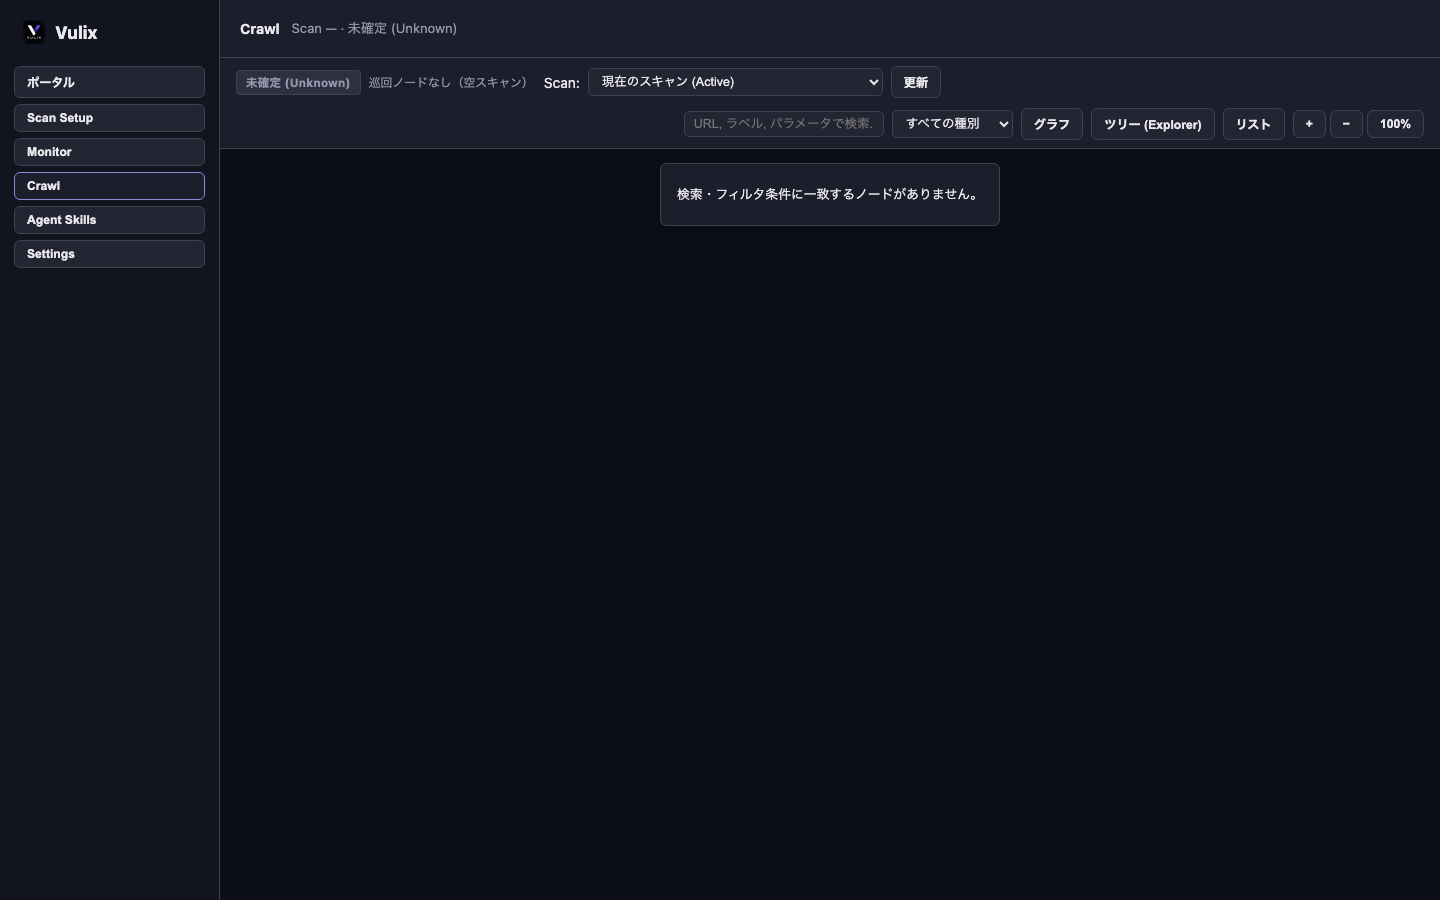
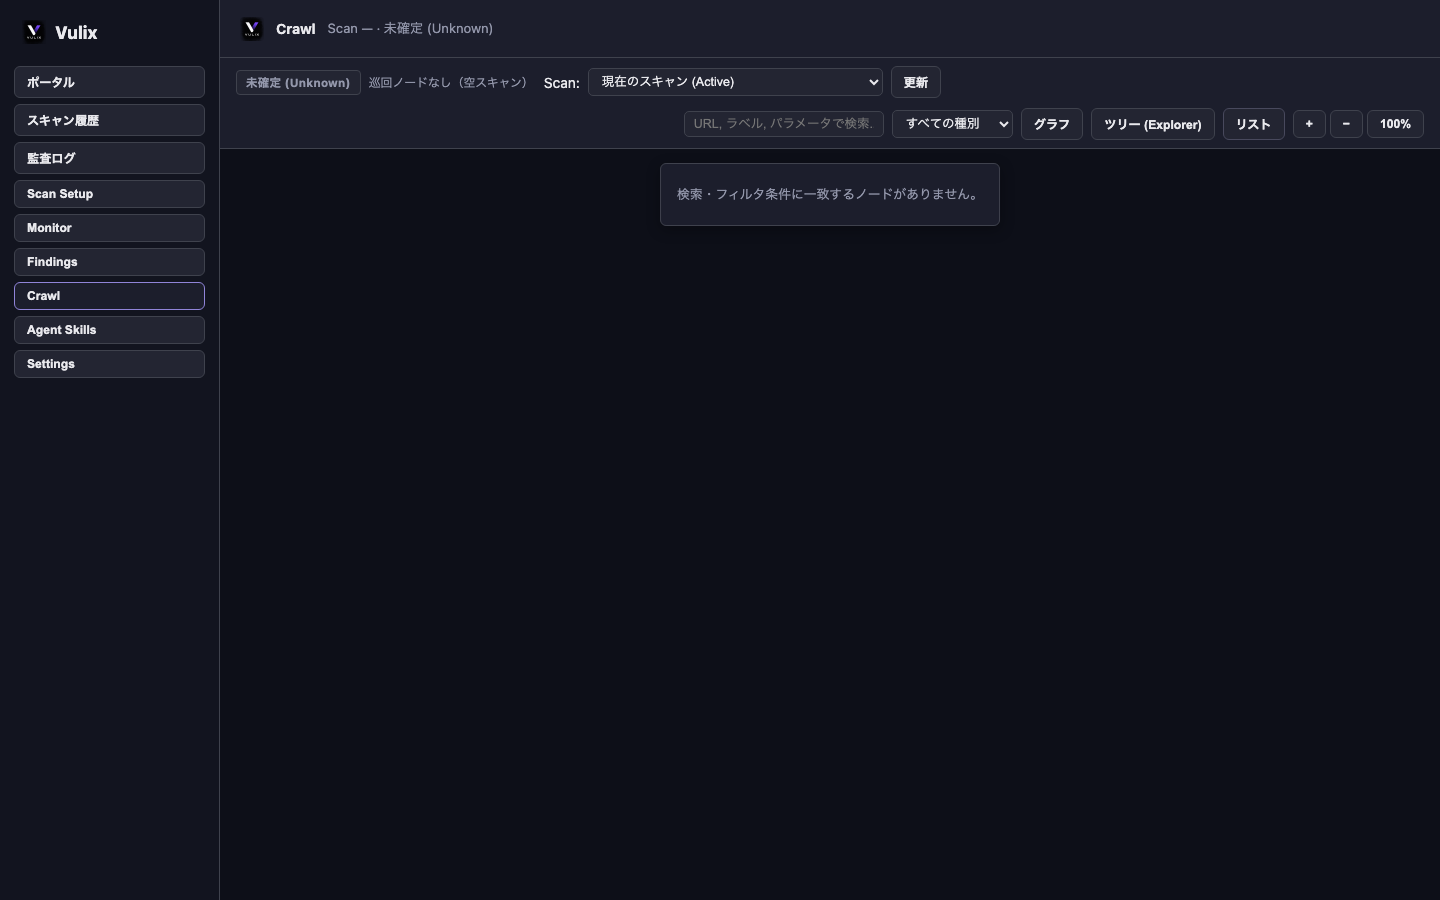
docs: refresh dashboard screenshots and usage guide for /app shell
Regenerate dashboard screenshots to reflect the current /app shell UI and representative legacy views. Update README.md and docs/dashboard_usage_ja.md to document the default /app shell, navigation rail and header, 3-pane monitor, setup readiness preflight, and crawl-findings cross links while preserving documentation for legacy endpoints.

diff --git a/tests/test_ui_app_screens_e2e.py b/tests/test_ui_app_screens_e2e.py
@@ -146,6 +146,7 @@ def test_app_portal_and_history_screens(e2e_harness: UIHarness):
 
         # 1. Verify Portal renders scan history table with seeded representative scans
         page.wait_for_function("() => document.querySelectorAll('#summarySurface table tbody tr').length >= 6")
+        e2e_harness.save_doc_image(page, "app-portal")
         table_text = page.locator("#summarySurface table tbody").inner_text()
 
         assert "store.internal.local" in table_text
@@ -841,5 +842,102 @@ def test_app_shell_keyboard_focus_visibility_and_responsive_widths(e2e_harness: 
         )
 
         e2e_harness.assert_no_errors(page)
+    finally:
+        page.close()
+
+
+def test_legacy_dashboard_surfaces_doc_images(ui_harness: UIHarness):
+    """Capture legacy /monitor screenshots for documentation in deterministic fixture states."""
+    require_browser()
+    page = ui_harness.new_page(**STANDARD_VIEWPORTS[1440])
+    try:
+        page.goto(f"{ui_harness.server_url}/monitor", wait_until="domcontentloaded")
+        page.wait_for_selector("#scanConfigOverlay")
+
+        # 1. dashboard-configured: Basic config filled in overlay
+        page.locator("#cfgInputUrl").fill("https://example.com")
+        page.locator("#cfgTab-basic #cfgDepth").fill("2")
+        ui_harness.save_doc_image(page, "dashboard-configured")
+
+        # 2. dashboard-carrier-coverage: Checks tab showing Carrier Coverage Matrix
+        page.locator(".cfg-tab", has_text="検査項目").click()
+        page.locator("#carrierCoverageMatrix").wait_for()
+        page.locator("#carrierCoverageHeading").scroll_into_view_if_needed()
+        page.wait_for_timeout(100)
+        ui_harness.save_doc_image(page, "dashboard-carrier-coverage")
+
+        # 3. dashboard-hybrid: Hybrid tab
+        page.locator(".cfg-tab", has_text="ハイブリッド").click()
+        page.locator("#cfgTab-hybrid").wait_for()
+        page.locator("#cfgTab-hybrid").scroll_into_view_if_needed()
+        page.wait_for_timeout(100)
+        ui_harness.save_doc_image(page, "dashboard-hybrid")
+
+        # Close overlay and populate monitor for live / done / aborted states
+        page.evaluate("() => document.getElementById('scanConfigOverlay').classList.remove('active')")
+        ui_harness.populate_live_monitor(page)
+
+        # 4. dashboard-results: Monitor in completed state with findings
+        page.evaluate('''() => {
+            handleEvent({
+                type: "scan_snapshot",
+                sequence: 10,
+                data: {
+                    status: "done",
+                    findings: [
+                        {
+                            id: "f_live_xss_01",
+                            check_type: "xss",
+                            severity: "critical",
+                            url: "http://store.internal.local/search?q=test",
+                            confirmed: true,
+                            verified: true
+                        }
+                    ],
+                    findings_count: 1,
+                    total_findings_count: 1,
+                    confirmed_findings_count: 1,
+                    page_count: 4,
+                    check_counts: {xss: 1, sqli: 0},
+                    url_order: ["http://store.internal.local", "http://store.internal.local/products"],
+                    phase: "report"
+                }
+            });
+        }''')
+        page.wait_for_function("() => state.scanDone === true && state.status === 'done'")
+        page.wait_for_timeout(100)
+        ui_harness.save_doc_image(page, "dashboard-results")
+
+        # 5. dashboard-aborted: Monitor in operator-aborted terminal state
+        page.evaluate('''() => {
+            handleEvent({
+                type: "scan_snapshot",
+                sequence: 11,
+                data: {
+                    status: "aborted",
+                    aborted: true,
+                    findings: [
+                        {
+                            id: "f_live_xss_01",
+                            check_type: "xss",
+                            severity: "critical",
+                            url: "http://store.internal.local/search?q=test",
+                            confirmed: true,
+                            verified: true
+                        }
+                    ],
+                    findings_count: 1,
+                    total_findings_count: 1,
+                    confirmed_findings_count: 1,
+                    page_count: 4,
+                    check_counts: {xss: 1, sqli: 0},
+                    url_order: ["http://store.internal.local", "http://store.internal.local/products"],
+                    phase: "attack"
+                }
+            });
+        }''')
+        page.wait_for_function("() => state.scanDone === true && (state.status === 'aborted' || state.aborted)")
+        page.wait_for_timeout(100)
+        ui_harness.save_doc_image(page, "dashboard-aborted")
     finally:
         page.close()

diff --git a/README.md b/README.md
@@ -143,7 +143,9 @@ Agent モードの CLI で選べる検査種別は `xss sqli ssti os path_traver
 
 ### 統合ダッシュボード (/app)
 
-Vulix の標準ダッシュボードは `/app` です。`python3 main.py serve` を起動すると、ブラウザで `/app`（ポータル表示）が既定で開きます。`main.py scan` および `main.py agent` コマンドでダッシュボードを起動する場合も `/app` シェルが標準となり、開始されたスキャンのライブ Monitor 画面（`/app#/monitor?scan=<scan_id>`）へ直接ディープリンクして表示・ブラウザオープンします。ポータルではなく該当スキャンのライブ監視画面へ直接着地するため、従来のライブモニターと同じ感覚で進捗を確認できます（`--no-monitor` 指定時および `batch` モード実行時はダッシュボードの起動・ブラウザオープンは行われません）。ポータル、スキャン履歴、監査ログ、Scan Setup、Monitor、Findings（検出結果一覧・詳細）、Agent Skills（Agent機能一覧）、Crawl、Settings を切り替えられます。ポータル・履歴・監査ログは共通の安全な読み取り処理で要約を表示し、URL の資格情報やクエリの秘密値を画面上でマスクします。レポート・成果物のダウンロード、差分、ストレージ整理、定期スキャンの操作を引き続き利用できます。Crawl は読み取り専用のクロールグラフ API を、ネイティブ SVG（ズーム・検索）、一覧、エクスプローラで表示し、完全性（complete/partial/unknown）を明示します。API が返さない参照は「利用不可」と表示します。Scan Setup はサーバーの設定宣言（`/api/v1/settings/schema`）に連動する5つのタブ（クロール・スコープ、検査項目・ペイロード、認証・ネットワーク、AI・自律探索、高度な設定・フロー）で構成され、通常・Agent・Hybrid モードに応じた設定入力とスキャン開始に対応します。スキャン開始エリアには最新の事前準備診断（readiness preflight）の結果・非合格項目・設定変更時の再確認案内を表示する事前サマリーを備え、開始前の準備状況確認や診断の再実行に対応します。Monitor は統合画面内の独立モジュールとして表示され、ポインタードラッグおよびキーボード（矢印キー）によるペイン境界リサイズ、各ペインの折りたたみ・最大化、3種のレイアウトプリセット（標準・ブラウザ優先・ログ優先）、localStorage へのレイアウト保持、狭小画面での縦積み表示に対応します。Findings 画面では過去および最新スキャンの脆弱性一覧を重大度・検査種別・確証状態・出自（決定論スキャナ / Agent独自解釈）で絞り込み、エビデンスビューアによる安全な証跡表示、確証・レビュー状態・出自の別バッジ表示、URL hash によるスキャン・Finding のディープリンクに対応します。Crawl 画面のノード詳細からは該当 URL の Finding 一覧へのリンク（件数表示、データ未読込時は「unknown」と明示）を提供し、Findings 詳細からは Crawl グラフ上の該当ノードへの直接リンク（グラフ内に存在しない場合は明示的な「クロールグラフ未検出」を表示）を提供します。各画面のアクション入口（ブラウザで開く等）はバックエンド実装が存在するものに限定し、未提供のアクションは理由（「not available in this version」）付きで無効表示されます。URL hash によりノード選択・Finding 選択・フィルタ条件が保持され、戻る/進むや再読み込みでも状態を復元します。既存どおり停止・再開・中断、レビュー、手動ペイロード操作を提供し、WebSocket とライブ状態は1つだけ維持します。URL の hash は画面と選択中の scan を表し、戻る/進むや再読み込みでも選択を保ちます。既存の `/` ポータルと `/monitor` も後方互換として引き続き利用可能であり、新ダッシュボードへのリンクも提供しています。
+Vulix の標準ダッシュボードは `/app` です。`python3 main.py serve` を起動すると、ブラウザで `/app`（ポータル表示）が既定で開きます。`main.py scan` および `main.py agent` コマンドでダッシュボードを起動する場合も `/app` シェルが標準となり、開始されたスキャンのライブ Monitor 画面（`/app#/monitor?scan=<scan_id>`）へ直接ディープリンクして表示・ブラウザオープンします。ポータルではなく該当スキャンのライブ監視画面へ直接着地するため、従来のライブモニターと同じ感覚で進捗を確認できます（`--no-monitor` 指定時および `batch` モード実行時はダッシュボードの起動・ブラウザオープンは行われません）。
+
+統合ダッシュボードは公式ロゴ（`templates/ui/vulix-logo-mark.png`）を配した左ナビゲーションレイルと上部ヘッダー（現在画面タイトル・ライブ接続状態）を備え、ポータル、スキャン履歴、監査ログ、Scan Setup、Monitor、Findings（検出結果一覧・詳細）、Agent Skills（Agent機能一覧）、Crawl、Settings を切り替えられます。これは通常の Web 運用および `serve` によるダッシュボード操作面（UI シェル）であり、自律探索を行う Agent / Hybrid エンジン内部の動作そのものとは区別されます。ポータル・履歴・監査ログは共通の安全な読み取り処理で要約を表示し、URL の資格情報やクエリの秘密値を画面上でマスクします。レポート・成果物のダウンロード、差分、ストレージ整理、定期スキャンの操作を引き続き利用できます。Crawl は読み取り専用のクロールグラフ API を、ネイティブ SVG（ズーム・検索）、一覧、エクスプローラで表示し、完全性（complete/partial/unknown）を明示します。API が返さない参照は「利用不可」と表示します。Scan Setup はサーバーの設定宣言（`/api/v1/settings/schema`）に連動する5つのタブ（クロール・スコープ、検査項目・ペイロード、認証・ネットワーク、AI・自律探索、高度な設定・フロー）で構成され、通常・Agent・Hybrid モードに応じた設定入力とスキャン開始に対応します。スキャン開始エリアには最新の事前準備診断（readiness preflight）の結果・非合格項目・設定変更時の再確認案内を表示する事前サマリーパネル（Setup readiness panel）を備え、開始前の準備状況確認や診断の再実行に対応します。Monitor は統合画面内の独立モジュールとして表示され、3つのペイン（巡回マップ・ブラウザ画面・ログ/Findings）の境界をポインタードラッグおよびキーボード（矢印キー）でリサイズでき、各ペインの折りたたみ・最大化、3種のレイアウトプリセット（標準・ブラウザ優先・ログ優先）、localStorage へのレイアウト保持、狭小画面での縦積み表示に対応します。Findings 画面では過去および最新スキャンの脆弱性一覧を重大度・検査種別・確証状態・出自（決定論スキャナ / Agent独自解釈）で絞り込み、エビデンスビューアによる安全な証跡表示、確証・レビュー状態・出自の別バッジ表示、URL hash によるスキャン・Finding のディープリンクに対応します。Crawl 画面のノード詳細からは該当 URL の Finding 一覧へのリンク（件数表示、データ未読込時は「unknown」と明示）を提供し、Findings 詳細からは Crawl グラフ上の該当ノードへの直接リンク（グラフ内に存在しない場合は明示的な「クロールグラフ未検出」を表示）を提供します（Crawl<->Findings 相互連携）。各画面のアクション入口（ブラウザで開く等）はバックエンド実装が存在するものに限定し、未提供のアクションは理由（「not available in this version」）付きで無効表示されます。URL hash によりノード選択・Finding 選択・フィルタ条件が保持され、戻る/進むや再読み込みでも状態を復元します。既存どおり停止・再開・中断、レビュー、手動ペイロード操作を提供し、WebSocket とライブ状態は1つだけ維持します。URL の hash は画面と選択中の scan を表し、戻る/進むや再読み込みでも選択を保ちます。既存の `/` ポータルと `/monitor` も後方互換として引き続き利用可能であり、新ダッシュボードへのリンクも提供しています。
 
 ![統合画面のポータル](docs/images/app-portal.png)
 ![統合画面の Scan Setup](docs/images/app-setup.png)
@@ -283,7 +285,10 @@ TOTP はネイティブ生成を利用でき、従来の `mcp-totp-authenticator
 python3 main.py serve --host 127.0.0.1 --port 8765
 ```
 
-- **統合ダッシュボード (`/app`)**: `python3 main.py serve` 実行時に既定で起動・表示される標準ダッシュボードです。ポータル、スキャン履歴、監査ログ、Scan Setup、Monitor、Findings、Agent Skills、Crawl、Settings のすべての機能を1つの画面で完結して利用できます。
+- **統合ダッシュボード (`/app`)**: `python3 main.py serve` 実行時に既定で起動・表示される標準ダッシュボードです。公式ロゴ（`vulix-logo-mark.png`）を配した左ナビゲーションレイルと上部ヘッダー（現在タイトル・接続バッジ）を備え、ポータル、スキャン履歴、監査ログ、Scan Setup、Monitor、Findings、Agent Skills、Crawl、Settings のすべての機能を1つの画面で完結して利用できます。`main.py scan` および `main.py agent` コマンドでダッシュボードを起動する場合も `/app` シェルのライブ Monitor 画面（`/app#/monitor?scan=<scan_id>`）へ直接ディープリンクして表示・ブラウザオープンします（`--no-monitor` 指定時および `batch` モード実行時はダッシュボードの起動・ブラウザオープンは行われません）。これは通常の Web 運用および `serve` によるダッシュボード操作面（UI シェル）であり、自律探索を行う Agent / Hybrid エンジン内部の自律動作そのものとは区別されます。
+- **3ペイン Monitor**: 統合画面内の Monitor は巡回マップ・ブラウザ画面・ログ/Findings の3ペイン構成で、境界セパレータのドラッグ操作およびキーボード（矢印キー）によるリサイズ、折りたたみ・最大化、3種のレイアウトプリセット（標準・ブラウザ優先・ログ優先）、localStorage へのレイアウト保持、狭小画面での縦積み表示に対応します。
+- **Scan Setup と事前診断パネル (Readiness Panel)**: 5つの設定タブ（クロール・スコープ、検査項目・ペイロード、認証・ネットワーク、AI・自律探索、高度な設定・フロー）に加え、スキャン開始前に準備状況（DNS、HTTP 到達性、Proxy、TLS、Chromium、出力先、認証、WebSocket、スキャナ前提条件）を診断する事前サマリーパネル（Setup readiness panel）を備え、非合格項目の確認や設定変更時の再診断に対応します。
+- **Crawl <-> Findings 相互連携**: Crawl グラフ上のノード詳細から該当 URL の Finding 一覧（件数表示、未読込時は「unknown」）へ遷移でき、Findings 詳細からは Crawl グラフ上の該当ノード（未検出時は「クロールグラフ未検出」）へ直接リンクできます。
 - **Server Portal (`/`)**: 従来のスキャン履歴、現在の実行、保存済みレポート、定期スキャン、監査ログ、通知設定を扱う画面です。新ダッシュボードへのリンクを備えており、後方互換として引き続き利用可能です。スキャン一覧や定期スキャン等の対象 URL は表示時に資格情報（query/fragment/matrix/cookieless session）を伏せ、HTTP(S) として解釈できない値や曖昧な入力は中立のプレースホルダ（`（URL非表示）`）で安全に表示します（表示時のみ。保存済みの設定やスキャン入力は変更しません）。
 - **ライブモニター (`/monitor`)**: 従来の独立した設定画面兼ライブモニターです。新ダッシュボードへのリンクを備えており、後方互換として引き続き利用可能です。スキャン対象 URL は表示時に資格情報を伏せ、監査ログの任意詳細は一律で非表示（（詳細非表示））として安全に秘匿表示します。HTTP(S) として解釈できない値や曖昧な入力は中立のプレースホルダで安全に表示します。検出件数を確定できない履歴は「未取得」と表示し、0 件（検出なし）とは区別します。
 - `--auth-token` または `WSCAN_AUTH_TOKEN` を設定すると、Web UI はログインを要求し、API は `Authorization: Bearer <token>` を要求します。
